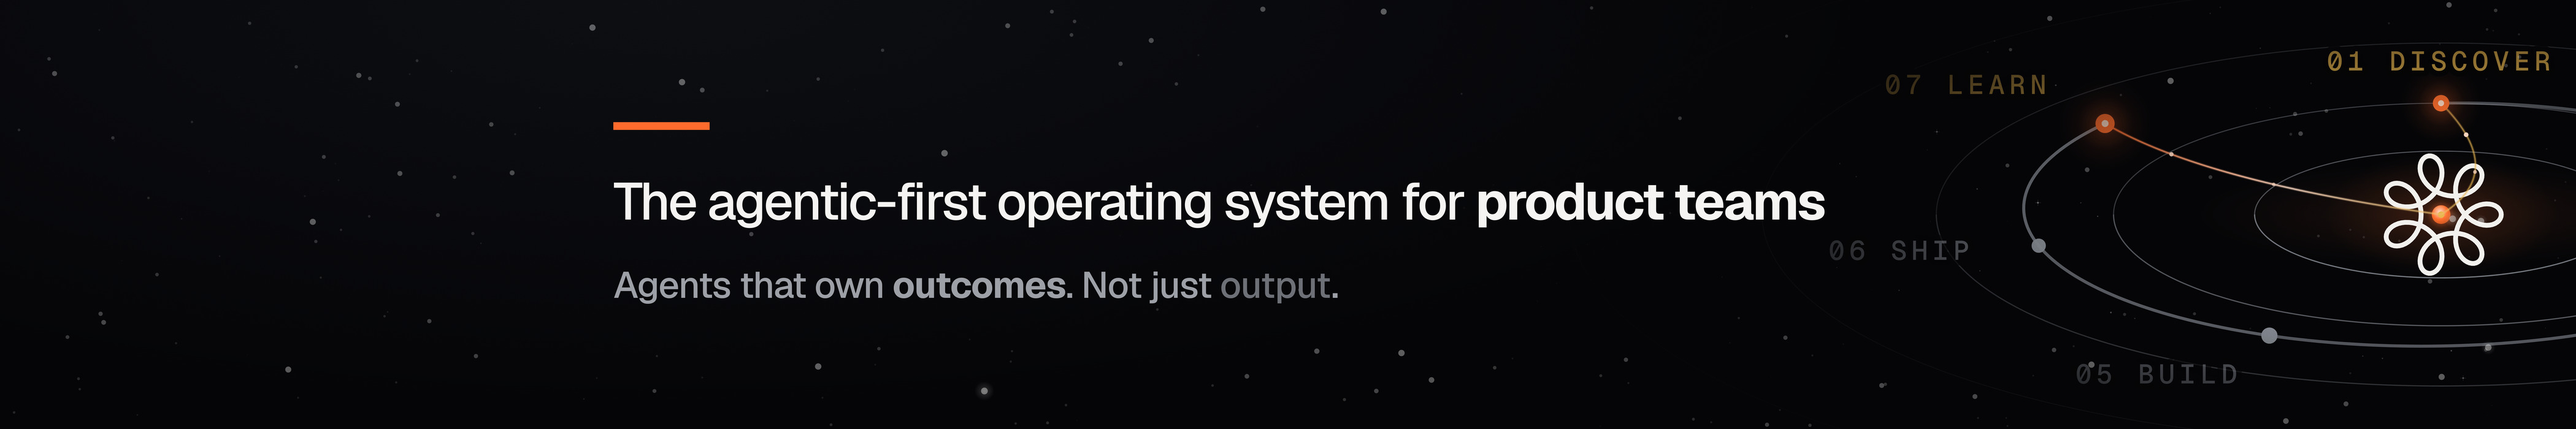
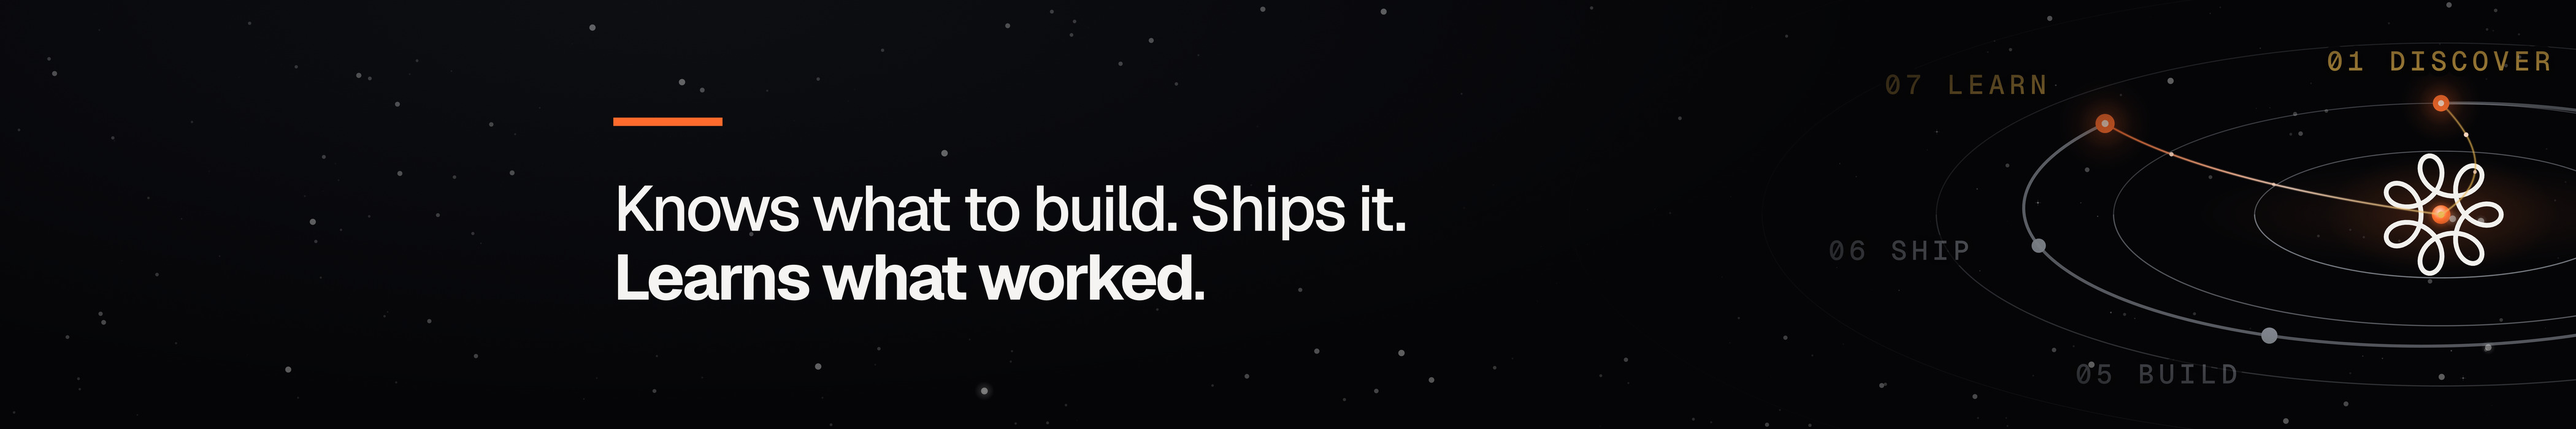
Two cover variants, because the tagline was already saying it
The category line ran across the cover AND sat in LinkedIn's Tagline field
directly under the company name, inside about 100 vertical pixels. Founder
caught it: "don't you feel that would be a concern, the repetitive of the
content."

The division that resolves it is not arbitrary. LinkedIn indexes the tagline
field, so the keyword-bearing category sentence belongs there on its own
merits. That leaves the cover free for the line the tagline cannot carry.

Both headline variants now ship, same pattern as x-header / x-header-safe:

- linkedin-cover-hook  the ratified variant-H claim, "Agents that own
  outcomes. Not just output." Preserved by name rather than left in git
  history, per founder ruling: "leave this current version, don't delete it,
  create a copy and work with the new version."
- linkedin-cover       a compression of TAGLINE from src/routes/index.tsx:44.

The compression needs sign-off and is marked as such in the source. The
verbatim spine runs 65 characters and the note was "this is very too long
text, how crisp can you deliver this message". The subject is dropped because
LinkedIn prints "Supaprod" directly beneath the cover, so the page supplies
it: "Knows what to build. Ships it. Learns what worked." Three beats, 49
characters, both ends of the loop intact. `Learns what worked` takes the
weight because it is the only one of the three a competitor cannot also
claim.

Applied live: all 20 specialty slots filled, up from 16. The cap is 20 and
[…]

Changed region(s): [[0.2183, 0.42, 0.7174, 0.54], [0.2183, 0.6, 0.5302, 0.72], [0.2183, 0.27, 0.2807, 0.3]]

diff --git a/docs/growth/branding/generate-banners.ts b/docs/growth/branding/generate-banners.ts
@@ -458,7 +458,63 @@ function strip(w: number, h: number, id: string) {
 // weird again, it's not good". Shrinking was the wrong lever there and it is
 // the wrong lever here. The anchor moves; the type does not.
 // =============================================================================
-function linkedinCover(w: number, h: number, id: string) {
+/**
+ * The two headline blocks the LinkedIn cover can carry. BOTH SHIP, per founder
+ * ruling 2026-08-07 ("leave this current version, don't delete it, create a copy
+ * and work with the new version") -- the same rule the x-header and x-header-safe
+ * pair already follow. The uploader picks; neither replaces the other.
+ *
+ * HOOK is the ratified variant-H claim. It is the sharper sentence and it owns
+ * the output/outcome pair that this file calls the moat.
+ *
+ * SPINE is `TAGLINE` from src/routes/index.tsx:44, verbatim, which is the live
+ * homepage hero. It names the three layers in order -- knows what to build (the
+ * director), ships it (the operating system), guides the next call (the company
+ * brain) -- so a stranger learns what the product DOES rather than only what it
+ * claims. On LinkedIn specifically that matters, because the Tagline field
+ * directly under the company name already carries the category, and a cold
+ * visitor who reads category plus claim still does not know what gets built.
+ *
+ * The lifted word is `guide the next call` and not an arbitrary one: per
+ * CLAUDE.md the company brain is the only layer defensible on its own, and it is
+ * the beat the instrument's lit return path from 07 LEARN actually draws.
+ */
+const HOOK_BLOCK = (D: number) => `
+  <div style="width:${(34 * D).toFixed(0)}px;height:${(2.6 * D).toFixed(1)}px;background:${P.ember}"></div>
+  <div style="margin-top:${(15 * D).toFixed(0)}px;font-size:${(21 * D).toFixed(0)}px;
+      line-height:${LEAD};font-weight:500;letter-spacing:-.042em;color:${P.bone};
+      white-space:nowrap">${HOOK}</div>`;
+
+// ⚠ NEW COPY, NOT YET RATIFIED. Everything else in this file traces to a
+// founder-approved string; this one does not, and it should not be treated as
+// canon until he signs it off.
+//
+// It is a COMPRESSION of TAGLINE, not a replacement for it. The verbatim line
+// runs 65 characters, and the founder's note was "this is very too long text,
+// how crisp can you deliver this message". A hero paragraph and a banner are
+// different surfaces: the hero is read, the banner is glanced at.
+//
+// The subject is dropped on purpose. LinkedIn prints "Supaprod" directly beneath
+// the cover, so the page supplies the subject and the banner does not have to.
+// That buys back the seven characters that "Agents that" was spending and lets
+// the sentence go verb-first, which is also punchier.
+//
+// Three beats, 49 characters, and both ends of the loop survive: knows what to
+// build is the director, ships it is the operating system, learns what worked is
+// the company brain. `Learns what worked` takes the weight because it is the
+// only one of the three a competitor cannot also claim.
+const SPINE_BLOCK = (D: number) => `
+  <div style="width:${(34 * D).toFixed(0)}px;height:${(2.6 * D).toFixed(1)}px;background:${P.ember}"></div>
+  <div style="margin-top:${(15 * D).toFixed(0)}px;font-size:${(20 * D).toFixed(0)}px;
+      line-height:${LEAD};font-weight:500;letter-spacing:-.042em;color:${P.bone};
+      white-space:nowrap">Knows what to build. Ships it.<br>${hi("Learns what worked")}.</div>`;
+
+function linkedinCover(
+  w: number,
+  h: number,
+  id: string,
+  headline: (D: number) => string = HOOK_BLOCK,
+) {
   // ---------------------------------------------------------------------------
   // TYPE IS SIZED TO THE RENDERED COVER, NOT TO THE FILE. This is the whole
   // reason this function exists in its current shape.
@@ -557,20 +613,32 @@ function linkedinCover(w: number, h: number, id: string) {
          across the whole frame while only the instrument fades. -->
     ${starsAtDisplayScale(w, h, id + "sky", D, { x0: 900, x1: 3400, y0: 150, y1: 550 })}
     ${GRAIN(P.grain)}
-    <!-- HIERARCHY INVERTED 2026-08-07, founder call, and this is the real fix.
-         "The agentic-first operating system for product teams -- that's the main
-          message. You can give agents own outcome, not output as a subline."
-         It had been the other way round: the sentence saying what the company IS
-         was set at a fifth the size of the one saying how it feels. A reader who
-         takes one glance should leave knowing the category, not the slogan.
+    <!-- THE BANNER CARRIES THE HOOK, NOT THE CATEGORY. Founder call 2026-08-07,
+         and it reverses the inversion made earlier the same day. Both calls were
+         right; the second one has information the first did not.
+
+         Read the live page top to bottom and the category line appeared TWICE
+         inside about 100 vertical pixels: once across the cover, and again in
+         LinkedIn's own Tagline field directly under the company name. "Don't you
+         feel that would be a concern, the repetitive of the content."
+
+         The division that resolves it is not arbitrary. LinkedIn INDEXES the
+         tagline field -- it is what surfaces the page in search -- so the
+         keyword-bearing category sentence belongs there on its own merits. That
+         leaves the cover free for the line the tagline cannot carry: the claim
+         that separates this company from every other one that could describe
+         itself as an operating system for product teams.
+
+         So the tagline does the searchable work and the banner does the
+         persuasive work, and neither repeats the other.
+
+         Two lines, not flat, with the weight contrast from the ratified copy
+         block at the top of this file: body at 500, "outcomes" at 700, and
+         exactly one word dimmed. LEAD 1.08 locks the pair into one object.
          No lockup here -- see the note on the mark above.
          x=1000 clears LinkedIn's logo plate, which ends at x=794. -->
     <div style="position:absolute;left:1000px;top:50%;transform:translateY(-50%);width:2460px">
-      <div style="width:${(30 * D).toFixed(0)}px;height:${(2.4 * D).toFixed(1)}px;background:${P.ember}"></div>
-      <div style="margin-top:${(13 * D).toFixed(0)}px;font-size:${(16.2 * D).toFixed(0)}px;
-          line-height:1.14;font-weight:500;letter-spacing:-.035em;color:${P.bone}">The agentic-first operating system for ${hi("product teams")}</div>
-      <div style="margin-top:${(10 * D).toFixed(0)}px;font-size:${(11.5 * D).toFixed(0)}px;
-          line-height:1.2;font-weight:500;letter-spacing:-.02em;color:#9DA0A7">${HOOK_FLAT}</div>
+      ${headline(D)}
     </div>
   `,
   );
@@ -626,7 +694,25 @@ const SPECS: {
   // now bitten the OG card, the icon set, the FAQ schema and this file. A
   // comment asserting an output exists is not an output; only code that writes
   // it is.
-  { base: "linkedin-cover", w: 4200, h: 700, fn: (i) => linkedinCover(4200, 700, i), jpeg: true },
+  // BOTH HEADLINE VARIANTS SHIP. Founder ruling 2026-08-07: "leave this current
+  // version, don't delete it, create a copy and work with the new version." Same
+  // pattern as x-header / x-header-safe -- the uploader picks, neither replaces
+  // the other, and the rejected one stays available rather than being lost to a
+  // git history nobody will dig through.
+  {
+    base: "linkedin-cover-hook",
+    w: 4200,
+    h: 700,
+    fn: (i) => linkedinCover(4200, 700, i, HOOK_BLOCK),
+    jpeg: true,
+  },
+  {
+    base: "linkedin-cover",
+    w: 4200,
+    h: 700,
+    fn: (i) => linkedinCover(4200, 700, i, SPINE_BLOCK),
+    jpeg: true,
+  },
   { base: "linkedin-cover-legacy", w: 1128, h: 191, fn: (i) => strip(1128, 191, i) },
   { base: "youtube-banner", w: 2560, h: 1440, fn: () => youtube() },
   { base: "og", w: 1200, h: 630, fn: (i) => card(1200, 630, i) },
